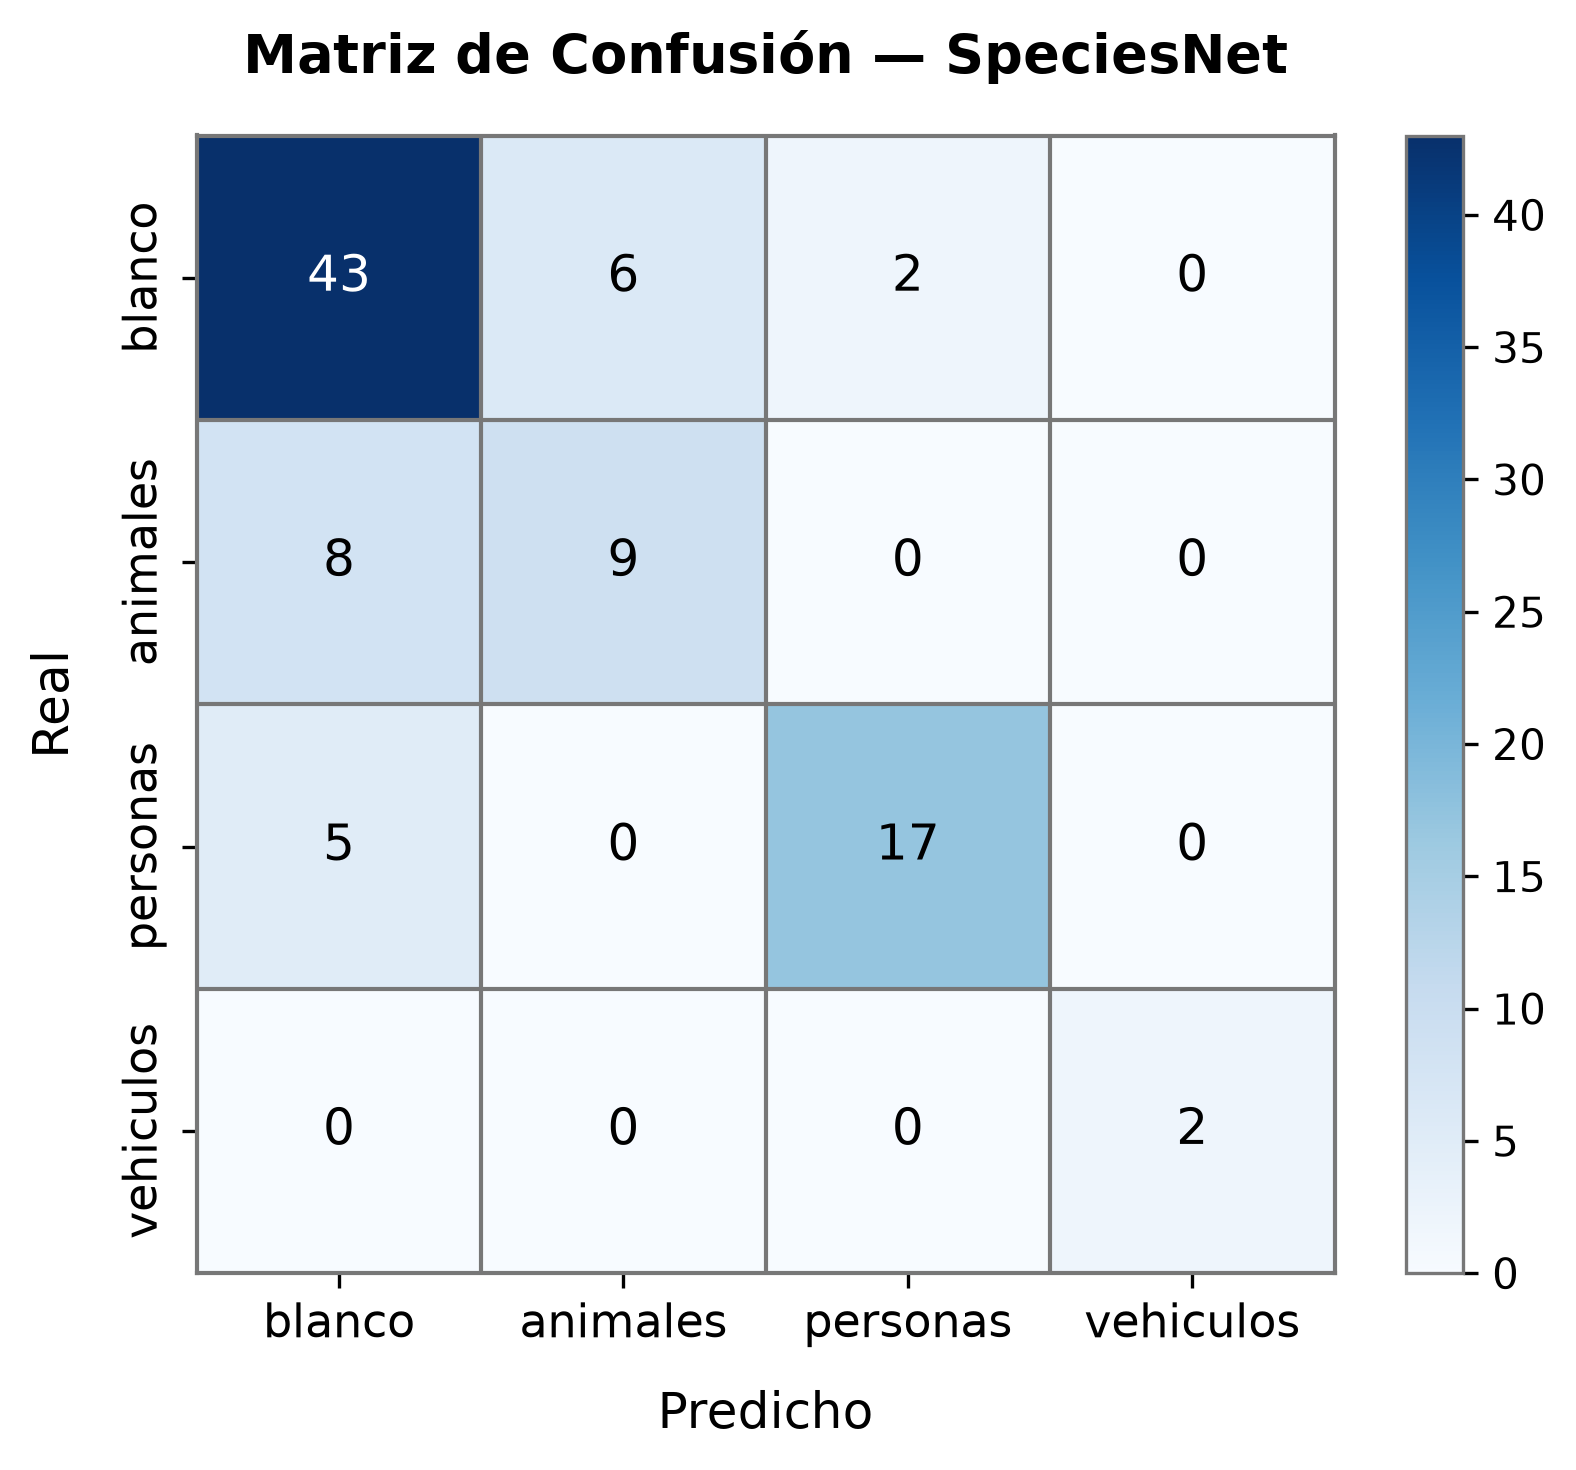
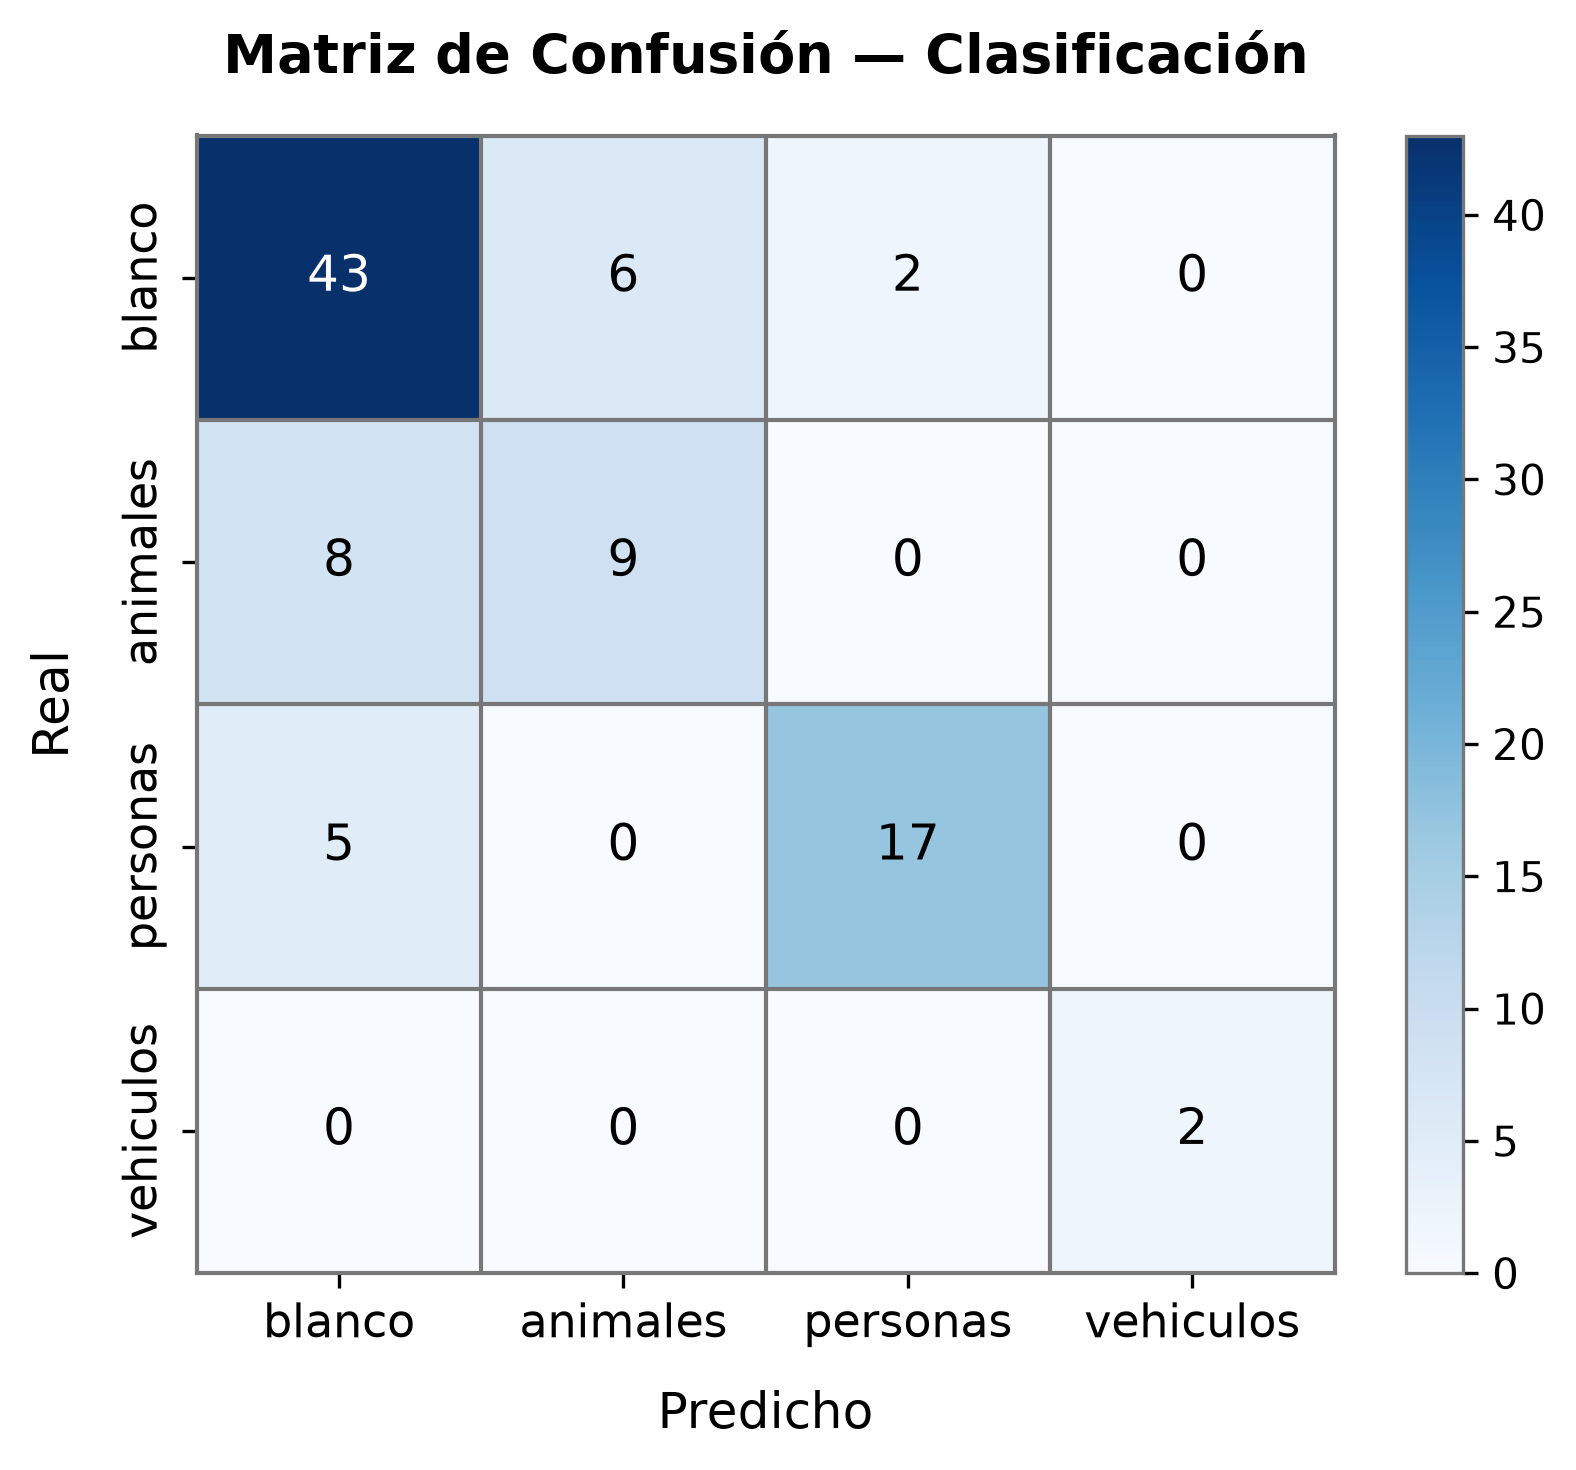
refactor: reclassify mesh routing slide as backup and update slide references in presentation notes

Changed region(s): [[0.1244, 0.0, 0.5596, 0.0612], [0.5907, 0.0, 0.8395, 0.0612]]

diff --git a/main.tex b/main.tex
@@ -1281,77 +1281,6 @@ desarrollamos.
   }
 \end{frame}
 
-\begin{frame}{Red Malla - Selección de Nodo Raíz}
-  \begin{columns}[c]
-    \begin{column}{0.52\textwidth}
-      \textbf{Elección del nodo Raíz:}
-      \vspace{0.8em}
-      \begin{itemize}
-        \setlength{\itemsep}{0.6em}
-        \small
-        \item Los candidatos evalúan su potencia de señal \textbf{RSSI} al Router.
-        \item El nodo con mejor señal (\textbf{\qty{-58}{dBm}}) se establece automáticamente como \textbf{Raíz}.
-        \item Nodos con señal más débil (\textbf{\qty{-85}{dBm}}) se reconfiguran como \textbf{Intermedios} y se conectan a la Raíz.
-      \end{itemize}
-      
-    %   \vspace{0.8em}
-    %   \begin{block}{Prevención de Bucles}
-    %     \scriptsize
-    %     Evita reenvíos cíclicos de paquetes durante la autoconfiguración jerárquica de la topología.
-    %   \end{block}
-    \end{column}
-    
-    \begin{column}{0.48\textwidth}
-      \centering
-      \begin{tikzpicture}[
-          font=\sffamily,
-          >=Latex,
-          every node/.style={align=center},
-          node_root/.style={circle, draw=orange!80!black, fill=orange!15, minimum size=1.0cm, thick, line width=1.2pt, font=\scriptsize\bfseries},
-          node_relay/.style={circle, draw=teal!80!black, fill=teal!10, minimum size=1.0cm, thick, font=\scriptsize\bfseries},
-          node_leaf/.style={circle, draw=teal!80!black, fill=teal!10, minimum size=1.0cm, thick, font=\scriptsize\bfseries},
-          link_root/.style={draw=orange!80!black, <->, line width=1.2pt},
-          link_weak/.style={draw=black!40, dashed, line width=1pt},
-          link_mesh/.style={draw=teal!80!black, ->, line width=1.2pt}
-        ]
-        
-        % Router / AP (Derecha)
-        \begin{scope}[shift={(2.2,0.0)}, scale=0.8]
-          \draw[draw=black, fill=white, rounded corners=1.5pt, line width=1.1pt] (-0.4,-0.18) rectangle (0.4,0.22);
-          \draw[draw=black, line width=1.2pt] (-0.3,0.22) -- (-0.48,0.58);
-          \draw[draw=black, line width=1.2pt] (0.3,0.22) -- (0.58,0.58);
-          \fill[black] (0,-0.08) circle (1.2pt);
-          \draw[draw=black, line width=0.7pt] (-0.1,-0.02) to[out=45, in=135] (0.1,-0.02);
-          \draw[draw=black, line width=0.7pt] (-0.17,0.06) to[out=45, in=135] (0.17,0.06);
-          \node (router) at (0,0.02) [minimum width=0.8cm, minimum height=0.6cm] {};
-        \end{scope}
-        \node[right=0.1cm of router, font=\tiny\bfseries, text=black!70, align=left] {Router\\(Salida)};
-
-        \begin{scope}[on background layer]
-          \draw[draw=blue!30, fill=blue!5, fill opacity=0.15, dashed, line width=1pt] (2.2, 0.0) -- ++(120:2.45cm) arc (120:240:2.45cm) -- cycle;
-        \end{scope}
-
-        % Nodos candidatos
-        \node[node_root] (A) at (0.7, 0.9) {Raíz};
-        \node[node_relay] (B) at (0.2, -0.9) {Inter-\\medio};
-        \node[node_leaf] (C) at (-1.0, 0.0) {Hoja};
-
-        % Enlaces de evaluación RSSI
-        \draw[link_root] (router.west) -- (A.east) node[midway, above, sloped, font=\tiny\bfseries, text=orange!80!black] {\qty{-58}{dBm}\\\\(Mejor)};
-        \draw[link_weak] (router.west) -- (B.east) node[midway, below, sloped, font=\tiny\bfseries, text=black!50] {\qty{-85}{dBm}\\\\(Débil)};
-
-        % Enlaces de la topología formada
-        \draw[link_mesh] (B) -- (A);
-        \draw[link_mesh] (C) -- (B);
-        
-      \end{tikzpicture}
-    \end{column}
-  \end{columns}
-  \note{
-    Además de la auto-recuperación (self-healing) de nodos hijos, la elección del nodo raíz (Raíz) es dinámica. Si hay varios nodos cerca del router de salida, comparan su señal RSSI y el que tenga mejor enlace se designa como Raíz, lo que asegura el camino más óptimo hacia el exterior.
-  }
-\end{frame}
-
 \begin{frame}{Red Malla - Roles y Energía}
   % \textbf{Trade-off de energía y funcionalidad:}
   % 
@@ -2413,6 +2342,71 @@ sido posible sin su apoyo.
 % Slides de Backup
 % ==============================================================================
 \appendix
+
+\begin{frame}{Anexo: Selección de Nodo Raíz}
+  \begin{columns}[c]
+    \begin{column}{0.52\textwidth}
+      \textbf{Elección del nodo Raíz:}
+      \vspace{0.8em}
+      \begin{itemize}
+        \setlength{\itemsep}{0.6em}
+        \small
+        \item Los candidatos evalúan su potencia de señal \textbf{RSSI} al Router.
+        \item El nodo con mejor señal (\textbf{\qty{-58}{dBm}}) se establece automáticamente como \textbf{Raíz}.
+        \item Nodos con señal más débil (\textbf{\qty{-85}{dBm}}) se reconfiguran como \textbf{Intermedios} y se conectan a la Raíz.
+      \end{itemize}
+    \end{column}
+    
+    \begin{column}{0.48\textwidth}
+      \centering
+      \begin{tikzpicture}[
+          font=\sffamily,
+          >=Latex,
+          every node/.style={align=center},
+          node_root/.style={circle, draw=orange!80!black, fill=orange!15, minimum size=1.0cm, thick, line width=1.2pt, font=\scriptsize\bfseries},
+          node_relay/.style={circle, draw=teal!80!black, fill=teal!10, minimum size=1.0cm, thick, font=\scriptsize\bfseries},
+          node_leaf/.style={circle, draw=teal!80!black, fill=teal!10, minimum size=1.0cm, thick, font=\scriptsize\bfseries},
+          link_root/.style={draw=orange!80!black, <->, line width=1.2pt},
+          link_weak/.style={draw=black!40, dashed, line width=1pt},
+          link_mesh/.style={draw=teal!80!black, ->, line width=1.2pt}
+        ]
+        
+        % Router / AP (Derecha)
+        \begin{scope}[shift={(2.2,0.0)}, scale=0.8]
+          \draw[draw=black, fill=white, rounded corners=1.5pt, line width=1.1pt] (-0.4,-0.18) rectangle (0.4,0.22);
+          \draw[draw=black, line width=1.2pt] (-0.3,0.22) -- (-0.48,0.58);
+          \draw[draw=black, line width=1.2pt] (0.3,0.22) -- (0.58,0.58);
+          \fill[black] (0,-0.08) circle (1.2pt);
+          \draw[draw=black, line width=0.7pt] (-0.1,-0.02) to[out=45, in=135] (0.1,-0.02);
+          \draw[draw=black, line width=0.7pt] (-0.17,0.06) to[out=45, in=135] (0.17,0.06);
+          \node (router) at (0,0.02) [minimum width=0.8cm, minimum height=0.6cm] {};
+        \end{scope}
+        \node[right=0.1cm of router, font=\tiny\bfseries, text=black!70, align=left] {Router\\(Salida)};
+
+        \begin{scope}[on background layer]
+          \draw[draw=blue!30, fill=blue!5, fill opacity=0.15, dashed, line width=1pt] (2.2, 0.0) -- ++(120:2.45cm) arc (120:240:2.45cm) -- cycle;
+        \end{scope}
+
+        % Nodos candidatos
+        \node[node_root] (A) at (0.7, 0.9) {Raíz};
+        \node[node_relay] (B) at (0.2, -0.9) {Inter-\\medio};
+        \node[node_leaf] (C) at (-1.0, 0.0) {Hoja};
+
+        % Enlaces de evaluación RSSI
+        \draw[link_root] (router.west) -- (A.east) node[midway, above, sloped, font=\tiny\bfseries, text=orange!80!black] {\qty{-58}{dBm}\\\\(Mejor)};
+        \draw[link_weak] (router.west) -- (B.east) node[midway, below, sloped, font=\tiny\bfseries, text=black!50] {\qty{-85}{dBm}\\\\(Débil)};
+
+        % Enlaces de la topología formada
+        \draw[link_mesh] (B) -- (A);
+        \draw[link_mesh] (C) -- (B);
+        
+      \end{tikzpicture}
+    \end{column}
+  \end{columns}
+  \note{
+    Además de la auto-recuperación (self-healing) de nodos hijos, la elección del nodo raíz (Raíz) es dinámica. Si hay varios nodos cerca del router de salida, comparan su señal RSSI y el que tenga mejor enlace se designa como Raíz, lo que asegura el camino más óptimo hacia el exterior.
+  }
+\end{frame}
 
 % \begin{frame}{Anexo: Gestión de Energía}
 %   \begin{columns}[t]

diff --git a/seccionesF.md b/seccionesF.md
@@ -244,14 +244,14 @@ Este documento contiene la guía estructurada, puntos clave y ganchos de transic
     *   Diseño optimizado para albergar el pack de baterías 18650, el sensor PIR en la parte frontal y la placa ESP32-CAM con su antena.
     *   Pensada para impresión 3D sencilla sin soportes complejos.
 *   **Gancho al siguiente slide:**
-    > *(Nota: Aquí le cedes la palabra a Gabriel para que exponga la SECCIÓN 4 de Firmware de la Red Malla [Diapositivas 15 a 22])*
+    > *(Nota: Aquí le cedes la palabra a Gabriel para que exponga la SECCIÓN 4 de Firmware de la Red Malla [Diapositivas 15 a 21])*
 
 ---
 ---
 
 ## SECCIÓN 6: Servidor de Monitoreo Remoto
 
-*(Nota: F retoma la palabra tras la diapositiva 22 de Gabriel "Gestión de Energía: Hoja vs. Intermedio" para explicar el Backend del sistema)*
+*(Nota: F retoma la palabra tras la diapositiva 21 de Gabriel "Gestión de Energía: Hoja vs. Intermedio" para explicar el Backend del sistema)*
 
 ### Diapositiva 23: Arquitectura del Servidor
 *   **Cómo arrancar (Señalando el diagrama de bloques en la diapositiva):**
@@ -387,7 +387,7 @@ Este documento contiene la guía estructurada, puntos clave y ganchos de transic
     *   **Costo inicial de despliegue (CAPEX):** Sumando la batería común, el prototipo cuesta **84.95 USD** contra **239.95 USD** de la Spartan.
     *   Representa un ahorro neto del **64.6% en la inversión inicial**, permitiendo desplegar casi 3 nodos de nuestro prototipo por el precio de una sola cámara comercial.
 *   **Gancho al siguiente slide:**
-    > *(Nota: Aquí le cedes la palabra a Gabriel para que exponga la diapositiva 23 "Resultados - Red Mesh (Pruebas de Campo: Condiciones y Total)" y las diapositivas del Bot de Telegram [slides 24 a 27])*
+    > *(Nota: Aquí le cedes la palabra a Gabriel para que exponga la diapositiva 22 "Resultados - Red Mesh (Pruebas de Campo: Condiciones y Total)" y las diapositivas del Bot de Telegram [slides 23 a 26])*
 
 ---
 ---